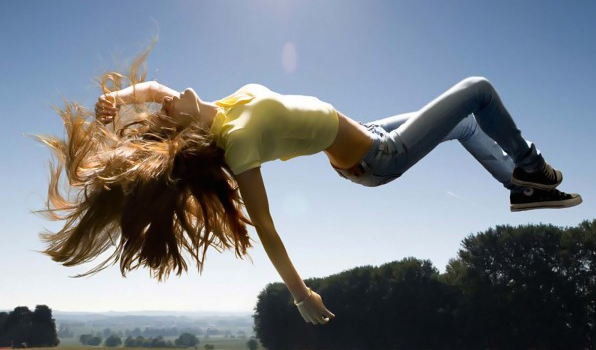
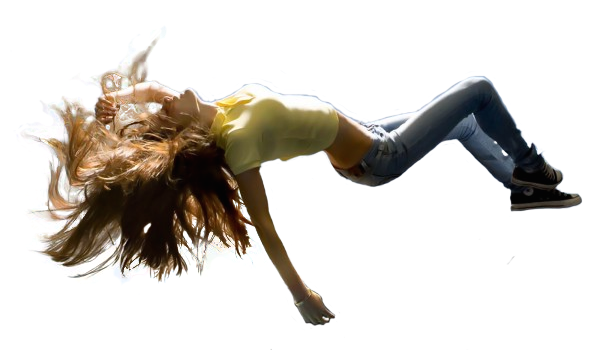
update top level images

diff --git a/index.html b/index.html
@@ -38,7 +38,7 @@
 		</div>
 
 		<div class="center">
-			<img class="img-responsive" src="img/people-in-mid-air.jpg">
+			<img class="img-responsive" src="img/flying-boy.png">
 		</div>
 
 		<div class="wrapper">
@@ -65,15 +65,31 @@
 
 		<div class="wrapper">
 			<div class="table-cell">
-				<p>Hendrerit percipitur vim te, sit tale malorum mentitum ut, qui purto omnis theophrastus et. Audire epicuri commune cum in. Aliquam assueverit per id, pri at probo illud. Quodsi theophrastus no vim, nostrud ocurreret has at.</p>
+				<h2>Let your imagination take flight</h2>
+				<p>Vix ne tritani mnesarchum, ne autem aeque nec. Ne perpetua mediocrem sapientem vel. Eam eu fugit quidam iracundia, at constituto expetendis qui, viris invenire vim in. Vix ex decore pertinacia, pri no erat minimum oporteat, veri consequuntur sed cu. Has at consul fastidii explicari, diam invidunt concludaturque sit et.</p>
 			</div>
+		</div>
+
+		<div class="center">
+			<img class="img-responsive" src="img/airplane.png">
 		</div>
 
 		<div class="wrapper">
 			<div class="table-cell">
-				<p>Vix ne tritani mnesarchum, ne autem aeque nec. Ne perpetua mediocrem sapientem vel. Eam eu fugit quidam iracundia, at constituto expetendis qui, viris invenire vim in. Vix ex decore pertinacia, pri no erat minimum oporteat, veri consequuntur sed cu. Has at consul fastidii explicari, diam invidunt concludaturque sit et.</p>
+				<h2>Get parallaxing today</h2>
+				<p>Hendrerit percipitur vim te, sit tale malorum mentitum ut, qui purto omnis theophrastus et. Audire epicuri commune cum in. Aliquam assueverit per id, pri at probo illud. Quodsi theophrastus no vim, nostrud ocurreret has at.</p>
 			</div>
 		</div>
+
+	</div>
+
+		<div class="wrapper">
+			<div class="github">
+				<h2>View more projects @github.com/m-hatch</h2>
+			</div>
+		</div>
+
+	<div class="content">
 
 		<div class="wrapper">
 			<div class="table-cell">

diff --git a/styles.css b/styles.css
@@ -47,9 +47,10 @@ table {
 /* styles */
 html, body{
 	font-family: 'Source Sans Pro', sans-serif;
+	color:#FFFFFF;
 }
 #fixed-bg{
-	background: url(img/polina.png) repeat-x;
+	background: url(img/sky-cloud-white.jpg) repeat-x;
 	background-size:auto 100%;
 	position:fixed;
 	z-index:-100;
@@ -57,7 +58,6 @@ html, body{
 	height:100%;
 }
 .content{
-	color:#FFFFFF;
 	width:66%;
 	margin:0 auto;
 }
@@ -76,6 +76,13 @@ html, body{
 .img-responsive{
 	width:100%;
 	height:auto;
+}
+.github{
+	padding-left:17%;
+	padding-right:17%;
+	padding-top:80px;
+	padding-bottom:80px;
+	background-color:rgba(222,222,222,0.6);
 }
 h1{
 	font-size:80px;
@@ -98,6 +105,9 @@ h3{
 p{
 	text-shadow:
 	1px 1px 1px #7e7e7e;
+}
+.github h2{
+	text-shadow: 3px 3px 5px #2b2b2b;
 }
 #arrow{
 	font-size:70px;

diff --git a/Xparallax.js b/Xparallax.js
@@ -57,7 +57,7 @@
 
   	$(document).ready(function() {
 
-		$('#fixed-bg').Xparallax(1.2);
+		$('#fixed-bg').Xparallax(0.8);
 
   	});
   	
